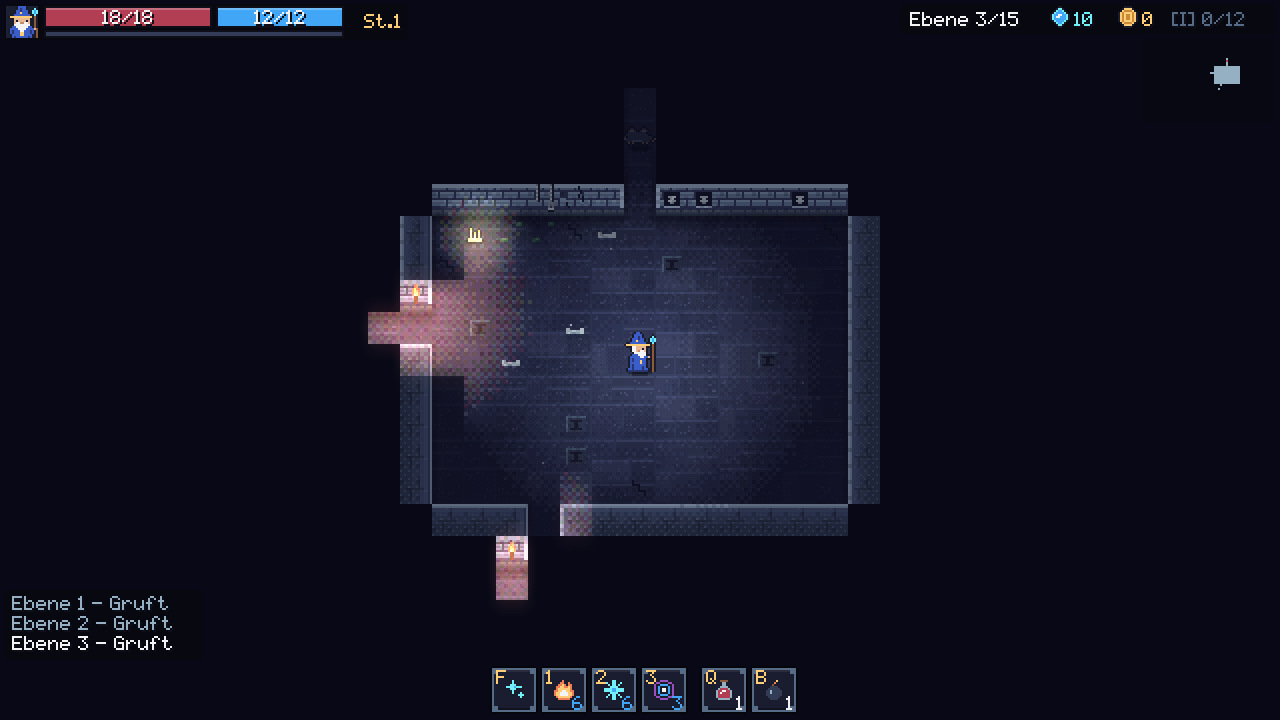
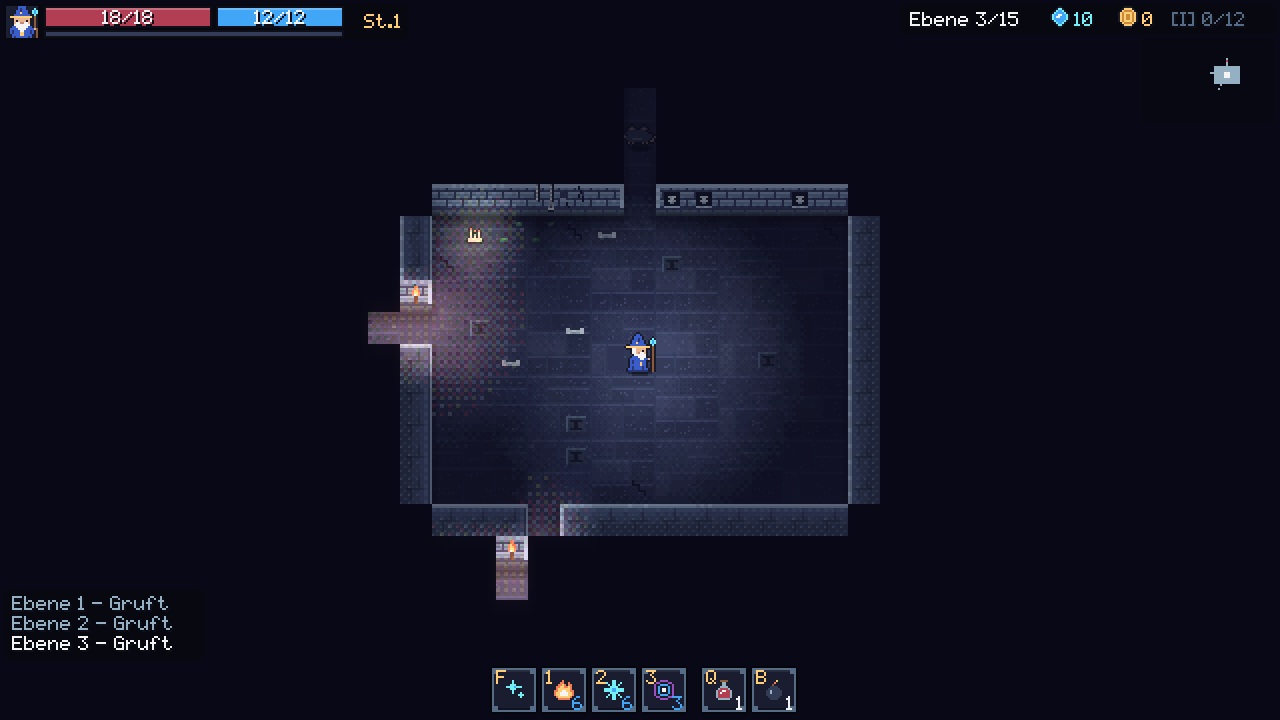
Licht ruhiger, Schattenkanten weich
- Halbschatten: verdeckter Boden neben beleuchtetem Boden bekommt einen Teil des Lichts;
  Feldwerte werden zwischen Feldmitten verblendet, nur Boden mit Boden und Wand mit Wand –
  Schatten an Wandecken laufen aus statt am Feldraster abzubrechen, kein Licht durch Wände
- Farblicht, Obergrenze und Nachglühen gedämpft, 10 statt 7 Helligkeitsstufen:
  Einzelheiten von Boden und Wänden bleiben im Lichtschein lesbar

Claude-Session: https://claude.ai/code/session_01TMNu2fsQ35aYg53JpeGmq3

Changed region(s): [[0.2812, 0.275, 0.4062, 0.5806], [0.3438, 0.6417, 0.4688, 0.8556], [0.4688, 0.4583, 0.5312, 0.4889]]

diff --git a/src/render/light.ts b/src/render/light.ts
@@ -17,9 +17,10 @@ export const AMBIENTS: Ambient[] = [
 const TS = 16;
 export const CELL = 2;
 const BAYER = [0, 8, 2, 10, 12, 4, 14, 6, 3, 11, 1, 9, 15, 7, 13, 5].map(v => (v + 0.5) / 16);
-const LEVELS = 7;
-const WALL_MIN = 0.42;
-const GLOW_MAX = 96; // Obergrenze des Farblichts je Kanal: dicht an der Flamme brennt nichts weiß aus // Wände im Sichtfeld bleiben auch fern vom Licht erkennbar
+const LEVELS = 10;
+const WALL_MIN = 0.42; // Wände im Sichtfeld bleiben auch fern vom Licht erkennbar
+const GLOW_MAX = 72; // Obergrenze des Farblichts je Kanal: dicht an der Flamme brennt nichts aus
+const GLOW_K = 0.2, GLOW_K_SOFT = 0.13, BLOOM = 0.3; // Stärke des Farblichts (kräftige / schwache Quellen) und des Nachglühens
 
 // ---- Sichtbarkeit je Lichtquelle (rein, testbar) ----
 
@@ -40,8 +41,34 @@ export function lightMask(tiles: Uint8Array, ox: number, oy: number, R: number):
   return m;
 }
 
+// Halbschatten: verdeckter Boden direkt neben beleuchtetem Boden bekommt einen Teil des Lichts,
+// damit Schattenkanten an Wandecken weich auslaufen statt am Feldraster abzubrechen.
+// Nie durch Wände: nur über offene Nachbarn, diagonal nur, wenn eine der beiden Ecken offen ist.
+export function softMask(tiles: Uint8Array, m: Uint8Array, ox: number, oy: number, R: number): { v: Float32Array; op: Uint8Array } {
+  const n = 2 * R + 1, v = new Float32Array(n * n), op = new Uint8Array(n * n);
+  const T = (gx: number, gy: number) => { const x = ox + gx, y = oy + gy; return x < 0 || y < 0 || x >= W || y >= H ? -1 : y * W + x; };
+  const lit = (gx: number, gy: number) => gx >= -R && gy >= -R && gx <= R && gy <= R && m[(gy + R) * n + gx + R] === 1 && T(gx, gy) >= 0 && !opaque(tiles[T(gx, gy)]);
+  const open = (gx: number, gy: number) => T(gx, gy) >= 0 && !opaque(tiles[T(gx, gy)]);
+  for (let gy = -R; gy <= R; gy++) for (let gx = -R; gx <= R; gx++) {
+    const k = (gy + R) * n + gx + R, t = T(gx, gy);
+    op[k] = t < 0 || opaque(tiles[t]) ? 1 : 0;
+    if (m[k]) { v[k] = 1; continue; }
+    if (op[k]) continue;
+    if (lit(gx + 1, gy) || lit(gx - 1, gy) || lit(gx, gy + 1) || lit(gx, gy - 1)) v[k] = 0.55;
+    else for (const [a, b] of [[1, 1], [1, -1], [-1, 1], [-1, -1]]) if (lit(gx + a, gy + b) && (open(gx + a, gy) || open(gx, gy + b))) { v[k] = 0.3; break; }
+  }
+  return { v, op };
+}
+
 // Masken werden je Ebene zwischengespeichert; ändert sich die Karte (Wand gesprengt, Fass weg), verfallen sie
 const masks = new Map<number, Uint8Array>();
+const softs = new Map<number, { v: Float32Array; op: Uint8Array }>();
+function softFor(tiles: Uint8Array, ox: number, oy: number, R: number) {
+  const key = (oy * W + ox) * 16 + R;
+  let s = softs.get(key);
+  if (!s) { s = softMask(tiles, maskFor(tiles, ox, oy, R), ox, oy, R); softs.set(key, s); }
+  return s;
+}
 let snapshot = new Uint8Array(0);
 export function maskFor(tiles: Uint8Array, ox: number, oy: number, R: number): Uint8Array {
   const key = (oy * W + ox) * 16 + R;
@@ -54,7 +81,7 @@ export function syncTiles(tiles: Uint8Array): boolean {
   if (same) for (let i = 0; i < tiles.length; i++) if ((opaque(tiles[i]) ? 1 : 0) !== snapshot[i]) { same = false; break; }
   if (same) return false;
   snapshot = Uint8Array.from(tiles, t => (opaque(t) ? 1 : 0));
-  masks.clear();
+  masks.clear(); softs.clear();
   return true;
 }
 
@@ -85,28 +112,28 @@ function ensure(vw: number, vh: number) {
   glowImg = glowCv.getContext('2d')!.createImageData(w, h);
 }
 
-// Lichtstärke einer Quelle an der Pixelzelle: innerhalb sichtbarer Felder weich zwischen den
-// Feldmitten verblendet, verdeckte Felder bleiben ganz dunkel (kein Durchscheinen durch Wände)
-function addLight(L: Light, m: Uint8Array, R: number, tx: number, ty: number, ox: number, oy: number, bright: boolean) {
-  const n = 2 * R + 1;
+// Lichtstärke einer Quelle an der Pixelzelle: Feldwerte (1 beleuchtet, Halbschatten, 0) werden
+// zwischen den Feldmitten bilinear verblendet – aber nur zwischen Feldern derselben Art
+// (Boden mit Boden, Wand mit Wand), sonst schiene Licht über die Wandkante hinweg.
+function addLight(L: Light, sm: { v: Float32Array; op: Uint8Array }, R: number, tx: number, ty: number, ox: number, oy: number, bright: boolean) {
+  const n = 2 * R + 1, { v, op } = sm;
   const cx = L.x * TS + 8 + ox, cy = L.y * TS + 8 + oy, rad = L.r * TS, a = L.a ?? 1;
   const c0 = Math.max(0, Math.floor((cx - rad) / CELL)), c1 = Math.min(lw - 1, Math.ceil((cx + rad) / CELL));
   const r0 = Math.max(0, Math.floor((cy - rad) / CELL)), r1 = Math.min(lh - 1, Math.ceil((cy + rad) / CELL));
-  const col = L.col ? rgbOf(L.col) : null, gk = bright ? 0.32 : 0.2;
-  const vAt = (gx: number, gy: number) => (gx < -R || gy < -R || gx > R || gy > R ? 0 : m[(gy + R) * n + gx + R]);
+  const col = L.col ? rgbOf(L.col) : null, gk = bright ? GLOW_K : GLOW_K_SOFT;
+  const idx = (gx: number, gy: number) => (gx < -R || gy < -R || gx > R || gy > R ? -1 : (gy + R) * n + gx + R);
   for (let cy2 = r0; cy2 <= r1; cy2++) {
-    const py = cy2 * CELL + CELL / 2, wy = py - oy;
+    const py = cy2 * CELL + CELL / 2, wy = py - oy, uy = wy / TS - 0.5 - ty, j0 = Math.floor(uy), fy = uy - j0;
     for (let cx2 = c0; cx2 <= c1; cx2++) {
       const px = cx2 * CELL + CELL / 2, d = Math.hypot(px - cx, py - cy) / rad;
       if (d >= 1) continue;
-      const wx = px - ox;
-      const gx = Math.floor(wx / TS) - tx, gy = Math.floor(wy / TS) - ty;
-      if (!vAt(gx, gy)) continue;
-      // weiche Kante: Anteil sichtbarer Nachbarn in Richtung des Zellpunkts
-      const fx = wx / TS - Math.floor(wx / TS) - 0.5, fy = wy / TS - Math.floor(wy / TS) - 0.5;
-      const sx = fx < 0 ? -1 : 1, sy = fy < 0 ? -1 : 1, ax = Math.abs(fx), ay = Math.abs(fy);
-      const vx = vAt(gx + sx, gy), vy = vAt(gx, gy + sy), vxy = vAt(gx + sx, gy + sy);
-      const soft = (1 - ax) * (1 - ay) + ax * (1 - ay) * (vx ? 1 : 0.35) + (1 - ax) * ay * (vy ? 1 : 0.35) + ax * ay * (vxy ? 1 : 0.35);
+      const wx = px - ox, ux = wx / TS - 0.5 - tx, i0 = Math.floor(ux), fx = ux - i0;
+      const own = idx(Math.floor(wx / TS) - tx, Math.floor(wy / TS) - ty);
+      if (own < 0) continue;
+      const ov = v[own], oop = op[own];
+      const s = (gx: number, gy: number) => { const k = idx(gx, gy); return k < 0 || op[k] !== oop ? ov : v[k]; };
+      const soft = (s(i0, j0) * (1 - fx) + s(i0 + 1, j0) * fx) * (1 - fy) + (s(i0, j0 + 1) * (1 - fx) + s(i0 + 1, j0 + 1) * fx) * fy;
+      if (soft <= 0.01) continue;
       const f = fall(d) * a * soft, i = cy2 * lw + cx2;
       lum[i] = 1 - (1 - lum[i]) * (1 - Math.min(1, f));
       if (col) { const g = fall(Math.min(1, d / 0.8)) * gk * soft; glow[i * 3] += col[0] * g; glow[i * 3 + 1] += col[1] * g; glow[i * 3 + 2] += col[2] * g; }
@@ -122,7 +149,7 @@ export function applyLight(ctx: CanvasRenderingContext2D, view: LightView, light
     const R = Math.ceil(L.r), tx = Math.round(L.x), ty = Math.round(L.y);
     const cx = L.x * TS + 8 + ox, cy = L.y * TS + 8 + oy, rad = L.r * TS;
     if (cx + rad < 0 || cy + rad < 0 || cx - rad > vw || cy - rad > vh || tx < 0 || ty < 0 || tx >= W || ty >= H) continue;
-    addLight(L, maskFor(view.tiles, tx, ty, R), R, tx, ty, ox, oy, !!L.col && (L.a ?? 1) >= 0.9);
+    addLight(L, softFor(view.tiles, tx, ty, R), R, tx, ty, ox, oy, !!L.col && (L.a ?? 1) >= 0.9);
   }
   // Dunkelheit und Glühen in Stufen rastern
   const d = darkImg.data, gd = glowImg.data, [ar, ag, ab] = amb.col;
@@ -157,7 +184,7 @@ export function applyLight(ctx: CanvasRenderingContext2D, view: LightView, light
   bg.clearRect(0, 0, bloomCv!.width, bloomCv!.height);
   bg.drawImage(glowCv!, 0, 0, bloomCv!.width, bloomCv!.height);
   ctx.imageSmoothingEnabled = true;
-  ctx.globalAlpha = 0.55;
+  ctx.globalAlpha = BLOOM;
   ctx.drawImage(bloomCv!, 0, 0, bloomCv!.width * 4 * CELL, bloomCv!.height * 4 * CELL);
   ctx.globalAlpha = 1;
   ctx.globalCompositeOperation = 'source-over';
